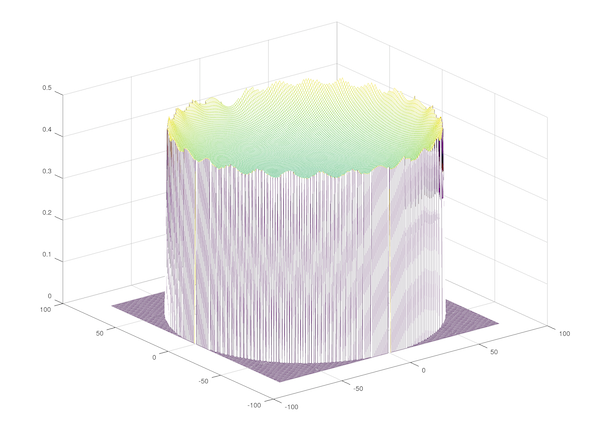
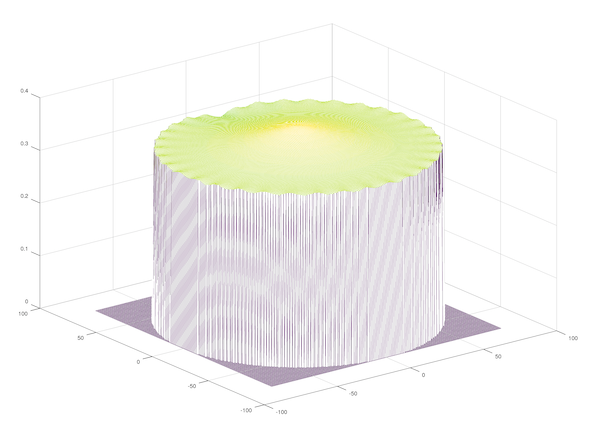
Updated default value of parameters and updated README with better explanations...

Changed region(s): [[0.12, 0.181, 0.96, 0.9652], [0.03, 0.2413, 0.12, 0.7239], [0.06, 0.181, 0.09, 0.2111]]

diff --git a/simulator.m b/simulator.m
@@ -29,7 +29,19 @@ function I = intensity(n, xLED, yLED, r, h, x, y)
   intensities = [];
 
   for i = 1:n
-    intensities(i) = 1 / norm([x y 0] - [xLED(i) yLED(i) h]);
+    # Vector between x, y point and LED i
+    v1 = [x y 0] - [xLED(i) yLED(i) h];
+    # The distance between the x, y point and LED i
+    d = norm(v1);
+    # The vector normal (orthogonal) to the face of the LED
+    v2 = [xLED(i) yLED(i) 0];
+    # The apex angle LED i is seen by the x, y point
+    # See https://www.mathworks.com/matlabcentral/answers/328240-calculate-the-3d-angle-between-two-vectors
+    a = atan2(norm(cross(v1, v2)), dot(v1, v2));
+    # Compute the intensity caused by LED i using the inverse square law, and by
+    # taking into account the apex angle since LEDs emit a directional beam of light
+    # See https://www.ledwatcher.com/light-measurements-explained/
+    intensities(i) = (1 / norm([x y 0] - [xLED(i) yLED(i) h])) * (1 - cos(a/2));
   endfor
 
   I = sum(intensities);
@@ -39,15 +51,14 @@ endfunction
 # PARAMETERS
 
 # Radius of LED strip circle in mm
-R = 87;
+R = 90;
 
 # Radius of the actual light surface in mm
-# This must be < R to avoid issues with 0-distance and infinite brightness...
-# It must also be an integer!
-r = 80;
+# This value is the inside dimension of the AT130EDT dew shield...
+r = 78.5;
 
 # Distance between two LEDs on the strip in mm
-l = 20;
+l = 16.5;
 
 # Height of the strip over reflective background sheet in mm
 h = 5;
@@ -79,17 +90,23 @@ tx = ty = -r:1:r;
 minval = Inf;
 maxval = 0;
 
+xindex = 1;
+yindex = 1;
+
 for x = tx
+  yindex = 1;
   for y = ty
      val = intensity(n, xLED, yLED, r, h, x, y);
-     tz(x + r + 1, y + r + 1) = val;
+     tz(xindex, yindex) = val;
      if val > 0 && val < minval
        minval = val;
      endif
      if val > maxval
        maxval = val;
      endif
+     yindex++;
   endfor
+  xindex++;
 endfor
 
 mesh(tx, ty, tz);

diff --git a/README.md b/README.md
@@ -1,10 +1,18 @@
-# Circular LED Flat Panel Evaluation
+# Circular LED Strip Flat Panel Uniformity Evaluation
 
-This GNU Octave simulation shows the light intensity map of a light panel created by using a circular strip of LEDs. It also outputs the intensity difference as a percentage between the brightest and the dimmest points.
+I am planning to build a flat field light panel using a circular LED strip placed against a circular wall encircling a diffusing sheet. The LED strip itself would not be directly visible as it would be tucked under a small lip around the top perimeter of the panel.
+
+I was wondering how uniform such a panel would be. My expectation is that we should see obvious differences in brightness, especially around the LEDs themselves, even though they would not be directly visible thanks to that small lip.
+
+To find out whether this would even work, I built this GNU Octave simulation. The calculation is pretty complicated. It uses the inverse square law, and also attempts to take into account the directionality of the light beam emitted by a single LED. Here is the result using the default values, which match my telescope:
 
 ```bash
 $ octave simulator.m
-Maximum intensity difference is 32.6%
+Maximum intensity difference is 15.6%
 ```
 
 ![Rendering of light intensity map](result.png)
+
+This result is a little surprising and rather pleasing. An acrylic diffuser placed on top of the light panel would probably be enough to get good enough uniformity to get good flats.
+
+As always, you can play with the parameters involved. They are documented in the source file (`simulator.m`)
